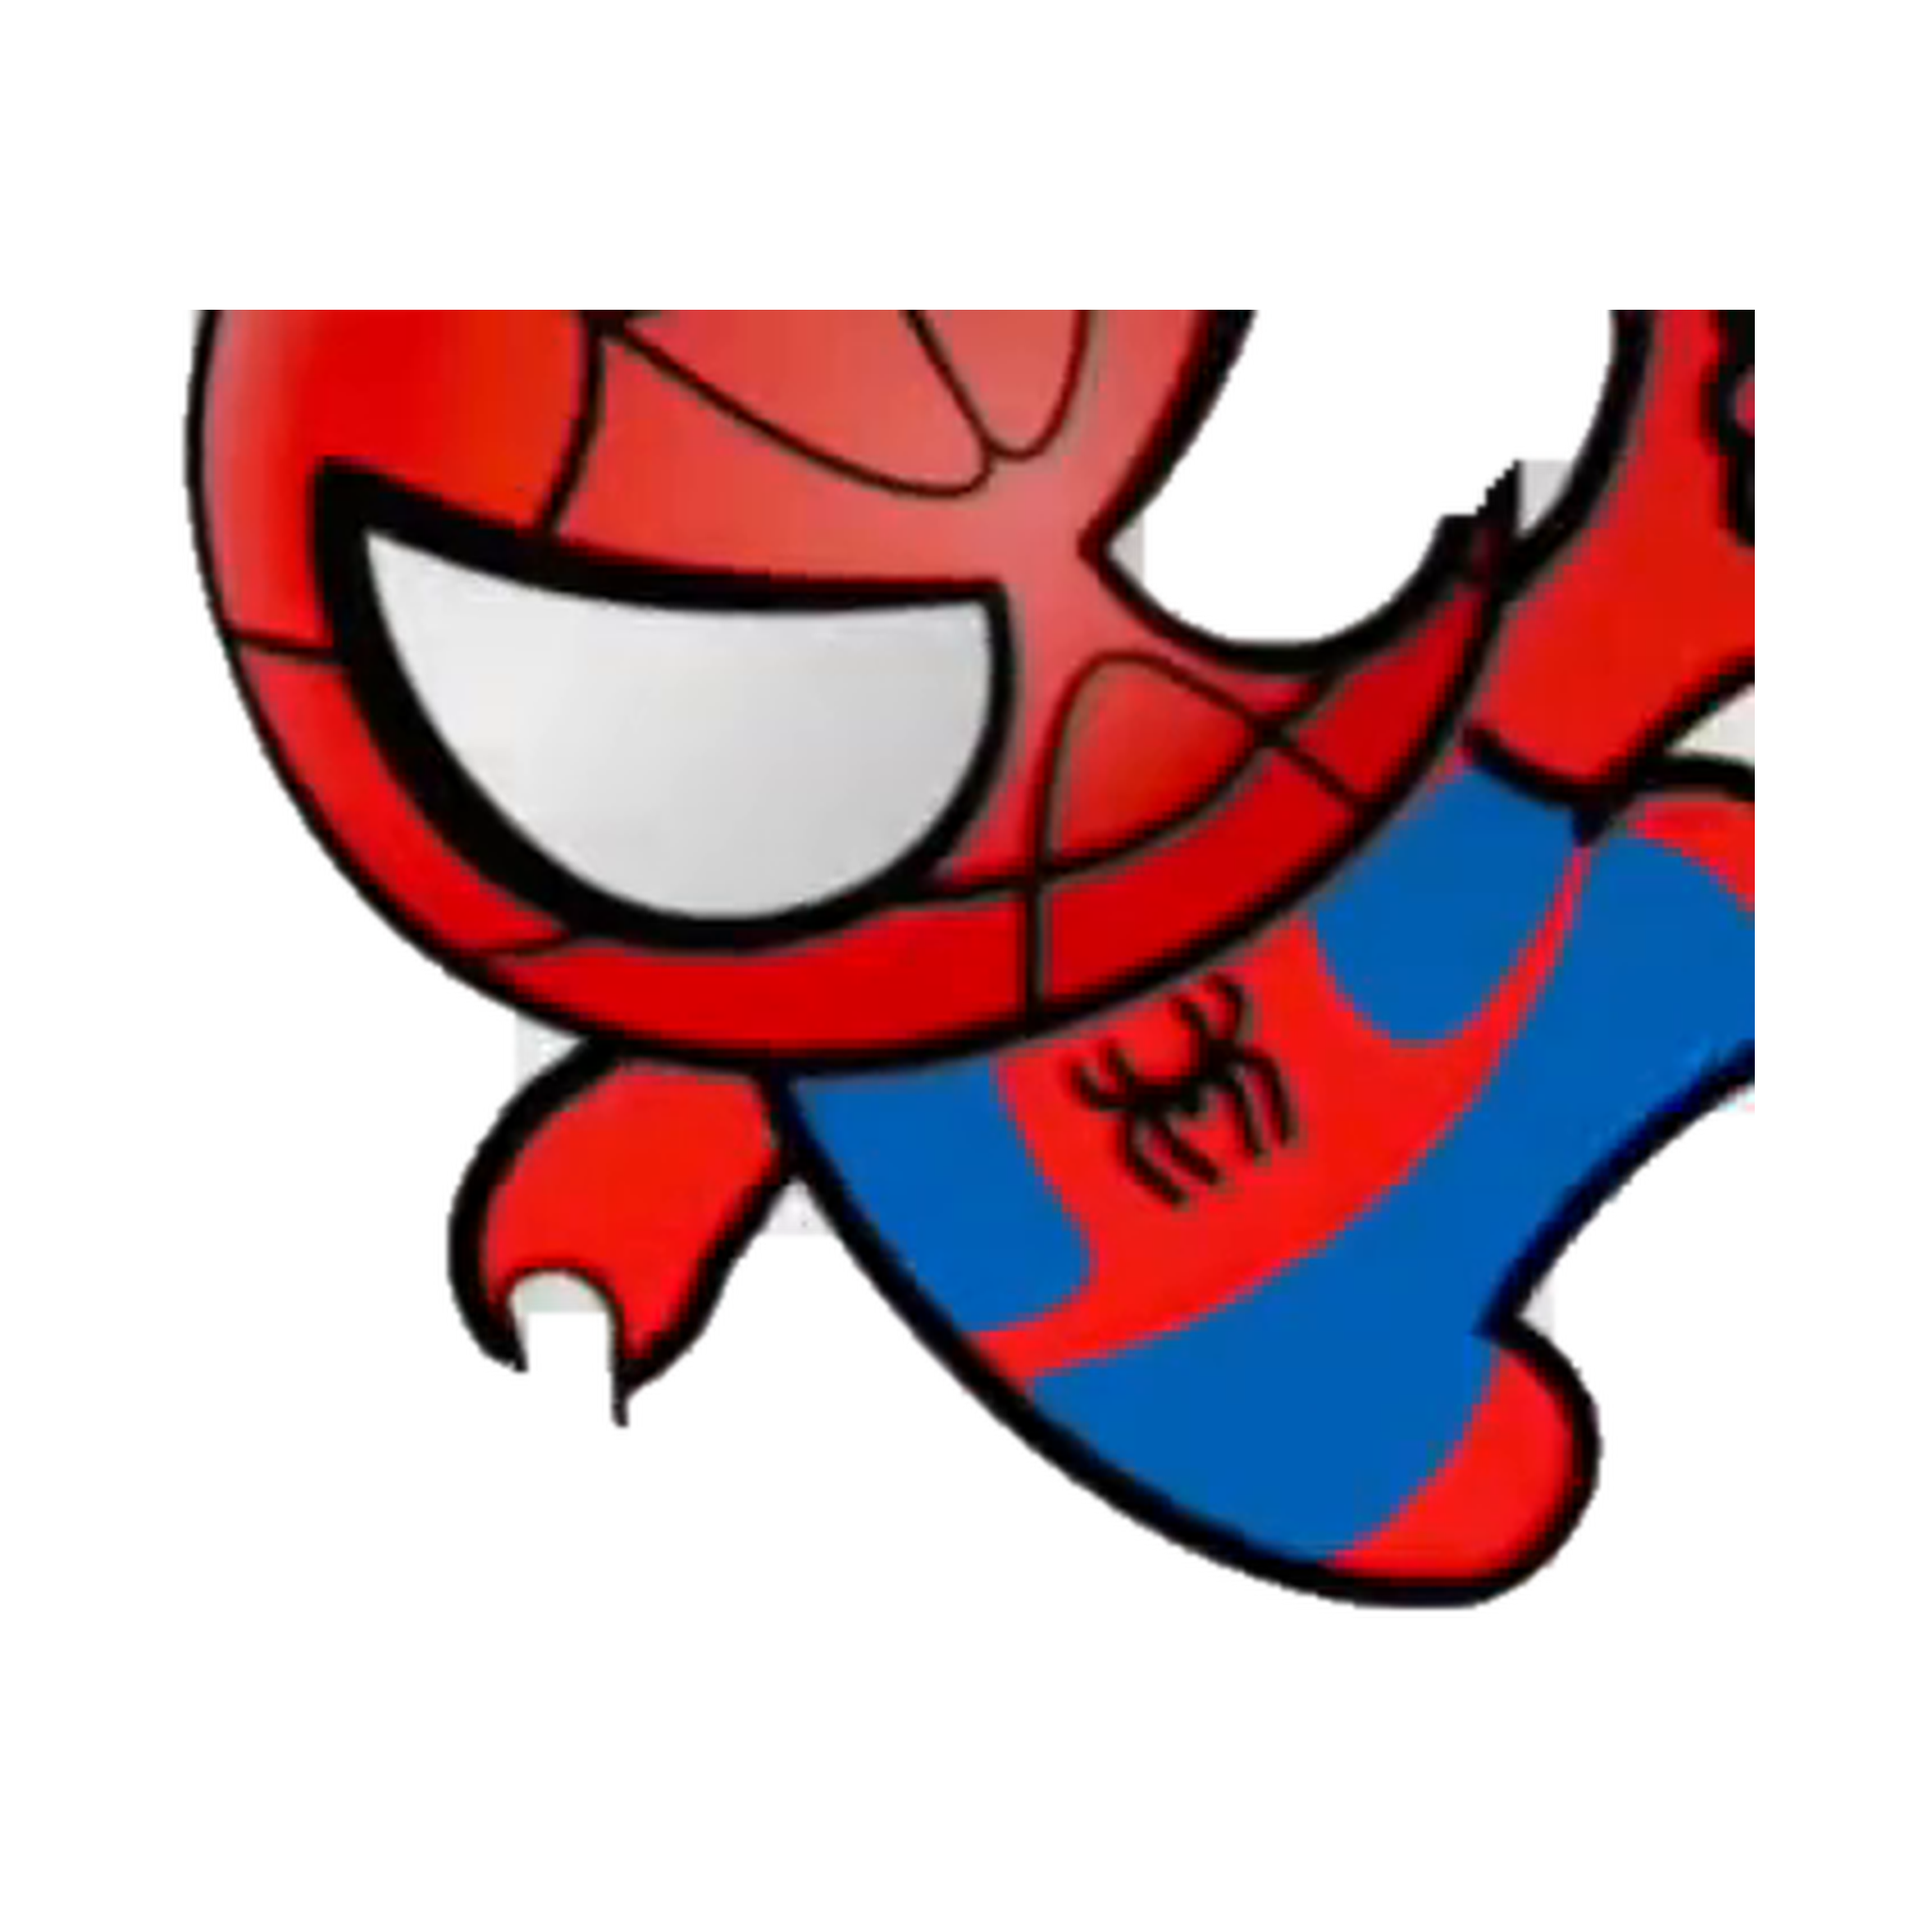
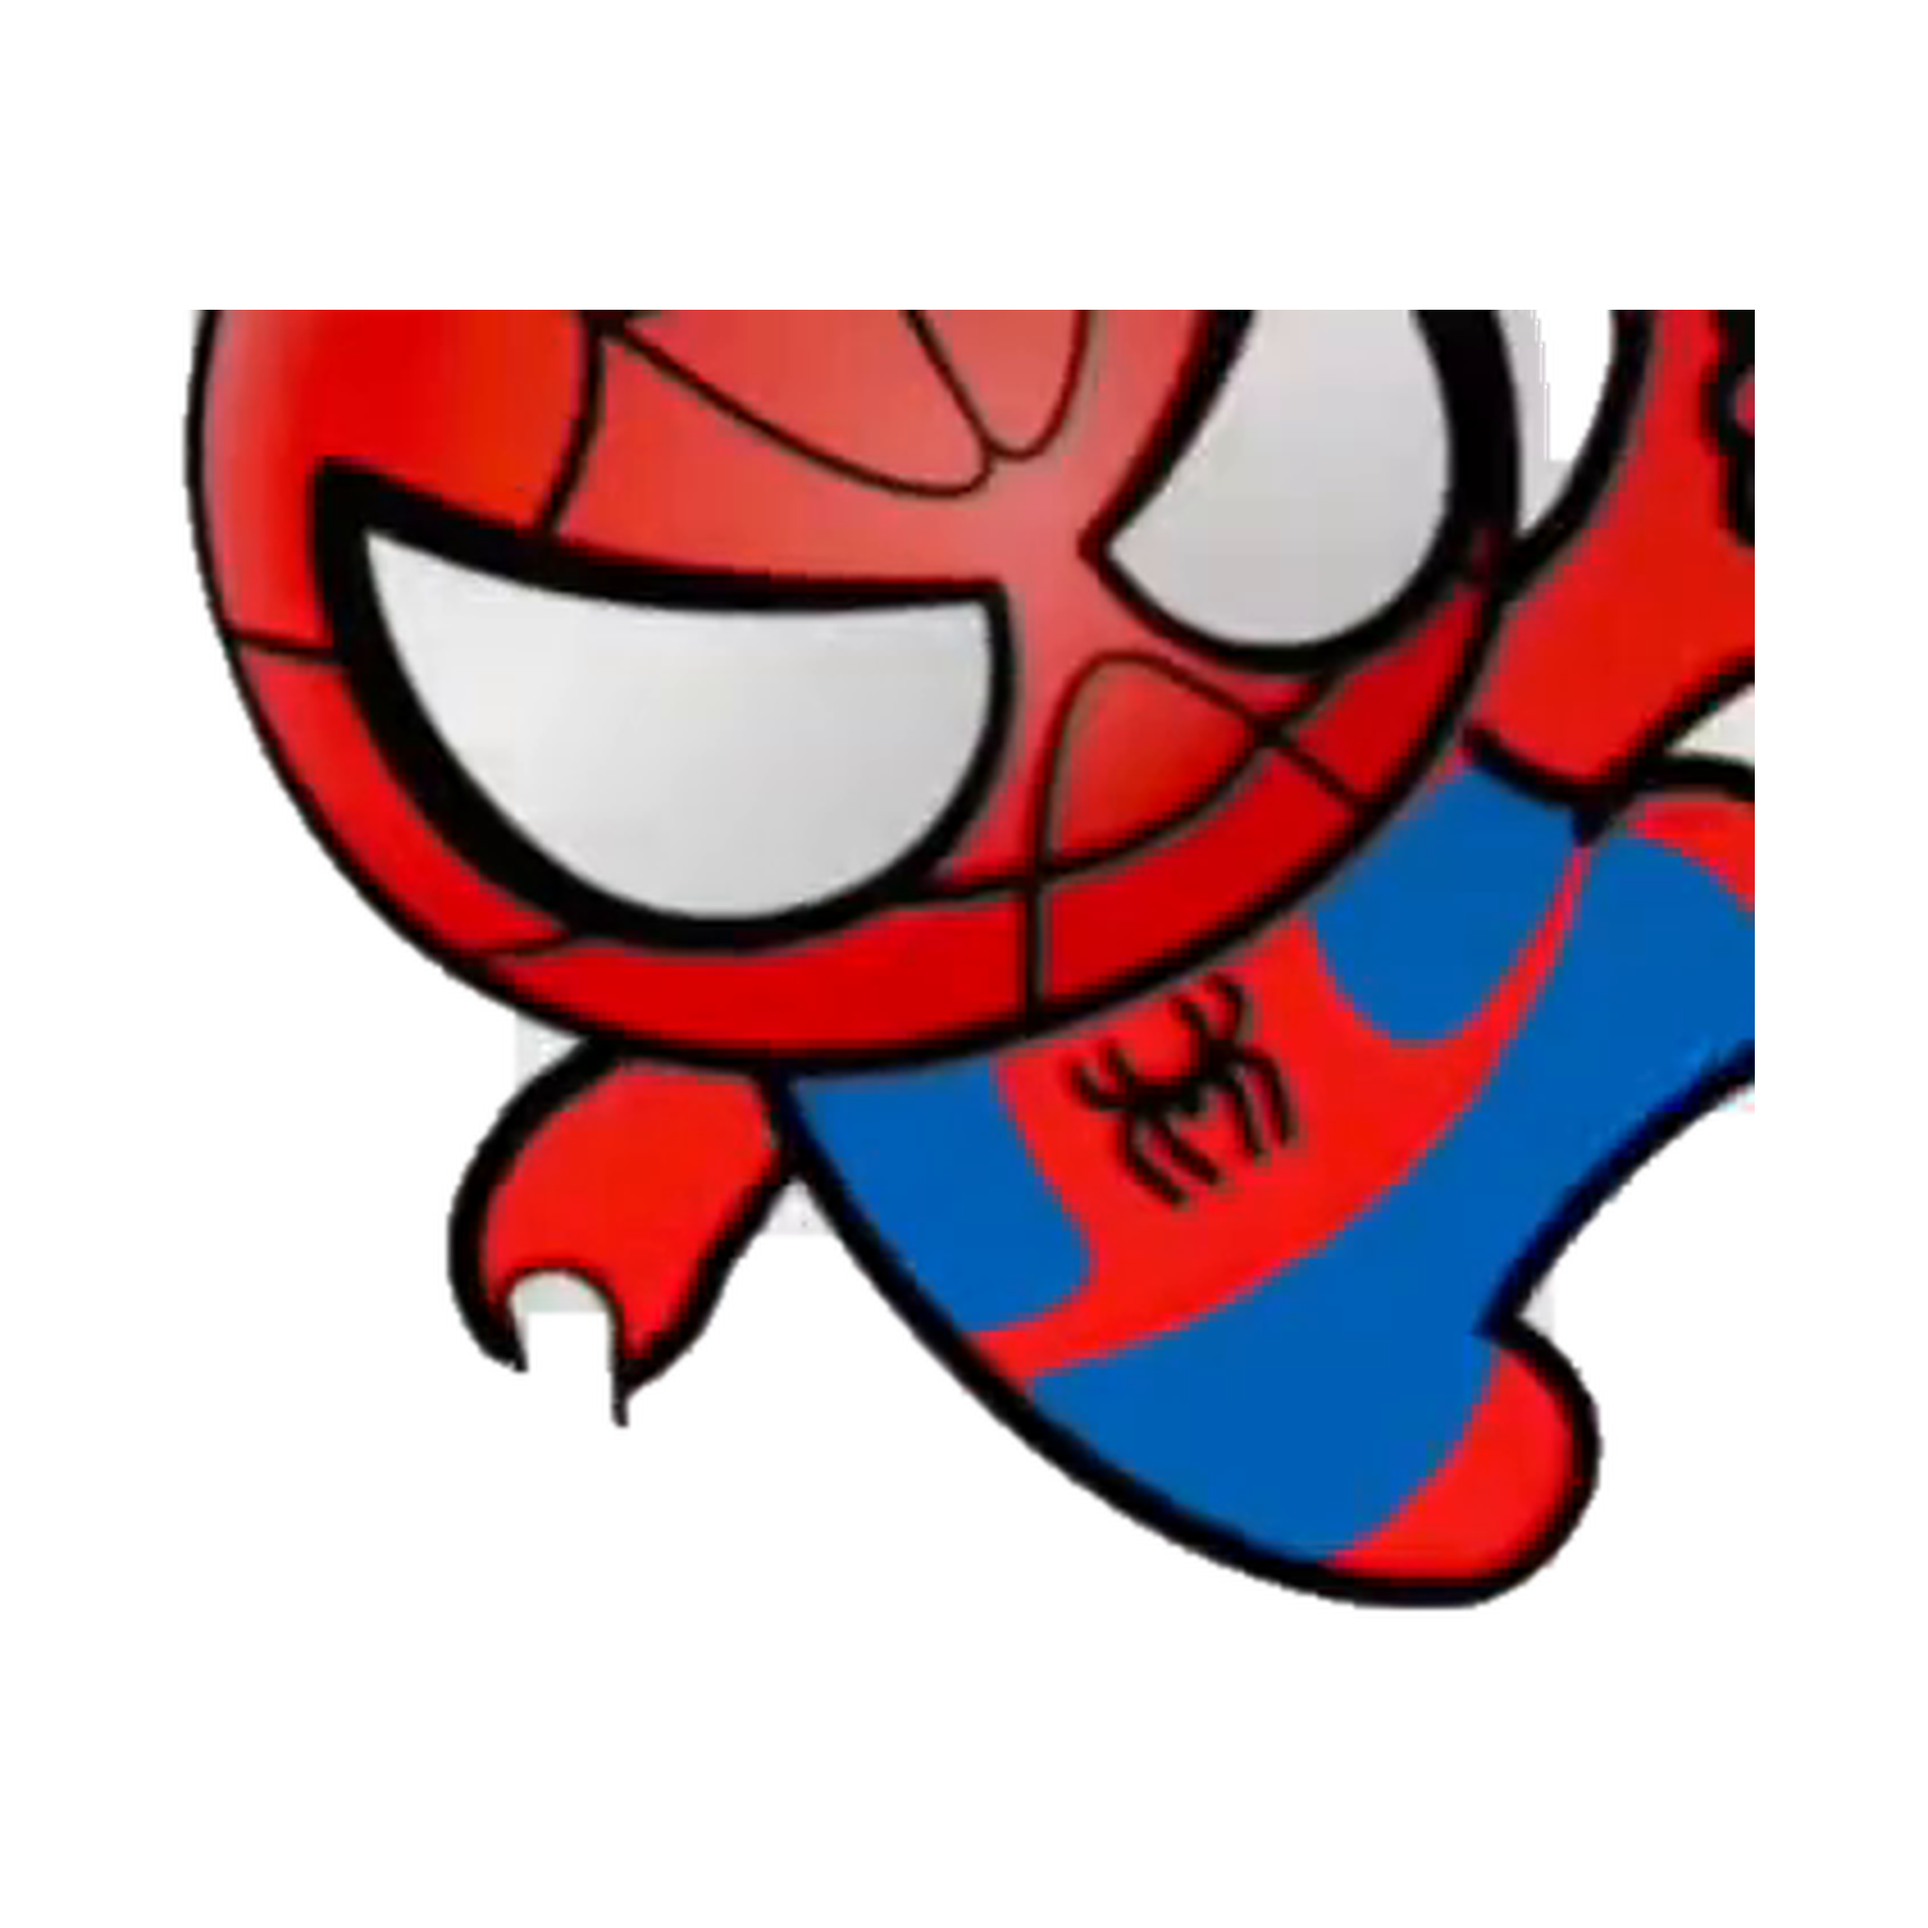
Keep body character eyes visible

Changed region(s): [[0.5938, 0.1562, 0.8125, 0.3438]]

diff --git a/extension/content.js b/extension/content.js
@@ -263,27 +263,27 @@
   function animatePose(image, index, duration) {
     const ranges = [
       [0, .19],
-      [.16, .39],
-      [.36, .60],
-      [.57, .80],
-      [.77, 1],
+      [.19, .39],
+      [.39, .60],
+      [.60, .80],
+      [.80, 1],
     ];
     const [start, end] = ranges[index];
-    const fade = .018;
+    const cut = .0001;
     const frames = [];
     if (start === 0) {
       frames.push({ offset: 0, opacity: 1 });
     } else {
       frames.push(
         { offset: 0, opacity: 0 },
-        { offset: Math.max(0, start - fade), opacity: 0 },
+        { offset: Math.max(0, start - cut), opacity: 0 },
         { offset: start, opacity: 1 },
       );
     }
     frames.push({ offset: end, opacity: 1 });
     if (end < 1) {
       frames.push(
-        { offset: Math.min(1, end + fade), opacity: 0 },
+        { offset: Math.min(1, end + cut), opacity: 0 },
         { offset: 1, opacity: 0 },
       );
     }

diff --git a/scripts/build_layered_assets.py b/scripts/build_layered_assets.py
@@ -42,6 +42,18 @@ BODY_POSES = tuple(
     REFERENCE_DIR / "body-poses" / f"pose-{index}.png" for index in range(1, 6)
 )
 
+# Inset circles for the round mask in each source frame. Keeping the exact
+# source pixels inside the mask preserves both white lenses and their black
+# rims, even where a lens is connected to the light video background after
+# compression.
+BODY_FACE_ELLIPSES = (
+    (390, -112, 674, 166),
+    (100, 274, 365, 516),
+    (154, 314, 418, 568),
+    (178, 252, 466, 522),
+    (85, 115, 350, 374),
+)
+
 
 def largest_component(mask: np.ndarray) -> np.ndarray:
     """Keep the character while discarding detached hearts and video marks."""
@@ -288,6 +300,7 @@ def main() -> None:
         isolated = isolate_character(
             reference,
             (0, 0, reference.width, reference.height),
+            face_ellipse=BODY_FACE_ELLIPSES[index - 1],
             keep_largest=True,
         )
         result = fit_to_canvas(isolated, (1680, 1820))
